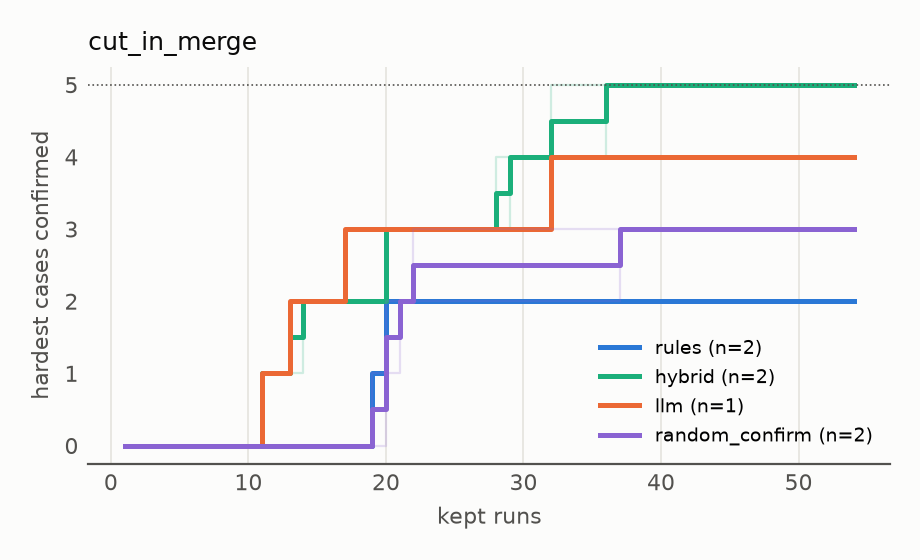
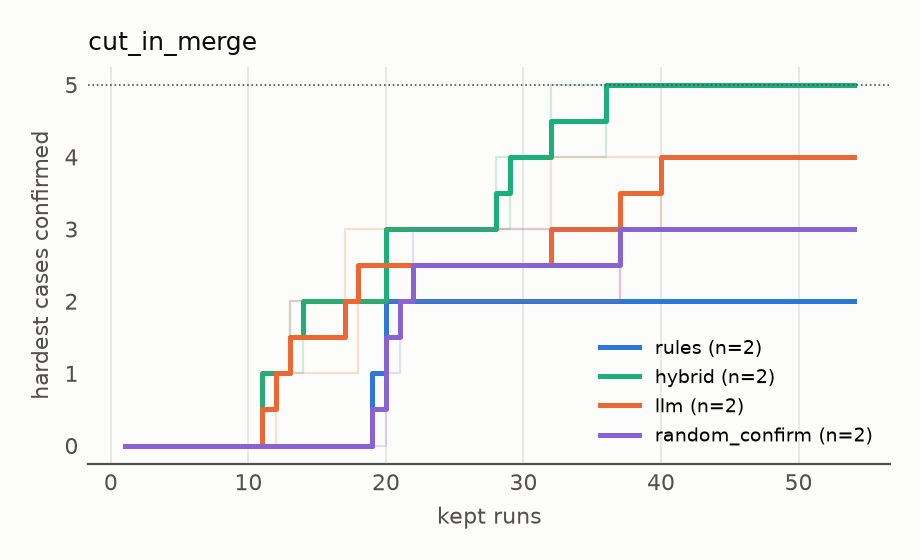
Cut-in llm replicate 3: 4 of 5 in 54

diff --git a/METHODS.md b/METHODS.md
@@ -11,7 +11,7 @@ k most challenging scenes (1 = a crash), whether or not it was confirmed.
 |---|---|---|---|---|---|---|---|---|---|---|
 | cut_in_merge | rules | 2 | 54, 54 | 0 | 54, 54 | 54.0 | 2, 2 of 5 | 0.948, 0.925 | 9, 9 | 0.0, 0.0 |
 | cut_in_merge | hybrid | 2 | 36, 36 | 2 | 32, 36 | 34.0 | 5, 5 of 5 | 1.0, 1.0 | 17, 20 | 51.7, 50.0 |
-| cut_in_merge | llm | 1 | 54 | 0 | 54 | 54 | 4 of 5 | 0.983 | 18 | 101.3 |
+| cut_in_merge | llm | 2 | 54, 53 | 0 | 54, 54 | 54.0 | 4, 4 of 5 | 0.983, 0.979 | 18, 18 | 101.3, 108.2 |
 | cut_in_merge | random_confirm | 2 | 54, 54 | 0 | 54, 54 | 54.0 | 3, 3 of 5 | 0.952, 0.949 | 18, 18 | 0.0, 0.0 |
 | intersection | rules | 1 | 49 | 0 | 49 | 49 | 0 of 5 | 0.435 | 0 | 0.0 |
 | intersection | hybrid | 1 | 49 | 0 | 49 | 49 | 1 of 5 | 0.541 | 6 | 91.4 |

diff --git a/BACK.md b/BACK.md
@@ -53,7 +53,7 @@ by day is in `LOG.md`. Live results: `research/simgate serve` (Results tab),
    vehicle (3 knobs, failures at the extremes) llm 5 of 5 by runs 23 and
    30 (two clean replicates), random + confirmation 5 by 43, then 4 and 3 of 5,
    hybrid 2, 3 and 3 of 5, rules 0, 0 and 0; cut-in (clean replicates only) hybrid 5 of 5 by
-   runs 32 and 36, random + confirmation 3 and 3 of 5, rules 2 and 2 of 5 in 54. Plain random
+   runs 32 and 36, llm 4 and 4 of 5, random + confirmation 3 and 3 of 5, rules 2 and 2 of 5 in 54. Plain random
    never confirms anything. Where the space is small every method does
    about as well; where it is large, the Claude methods find the hardest
    cases first. More replicates are running.

diff --git a/FACTS.md b/FACTS.md
@@ -569,7 +569,7 @@ is queued (to replace the left-out one).
 
 Clean replicates only (replicate 1 of rules, hybrid and llm stopped on the
 broad count, left out; fourth replicates queued): hybrid 5 of 5 at 32
-and at 36 runs; llm 4 of 5 in 54; random + confirmation 3, 3 of 5 in 54; rules 2, 2
+and at 36 runs; llm 4, 4 of 5 in 54; random + confirmation 3, 3 of 5 in 54; rules 2, 2
 of 5 in 54, the same two both times (1.25x speed, no time shift, scenes
 023b7fcc and 09a95ffa; setting ids differ between arms), as replay
 determinism predicts. Replicates 3-4 of hybrid and llm running or queued.
